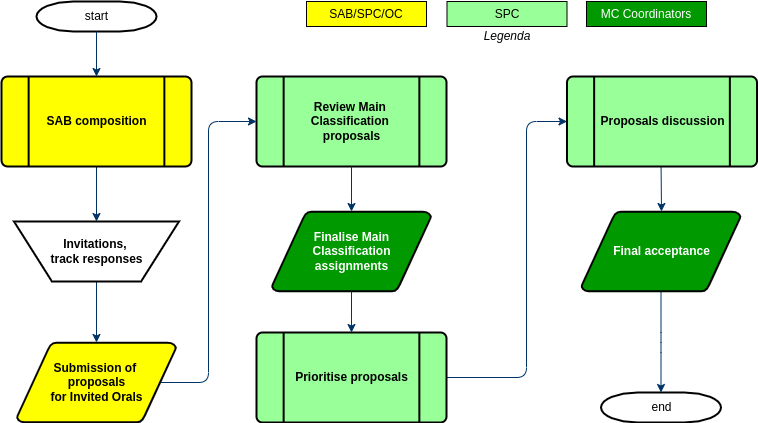
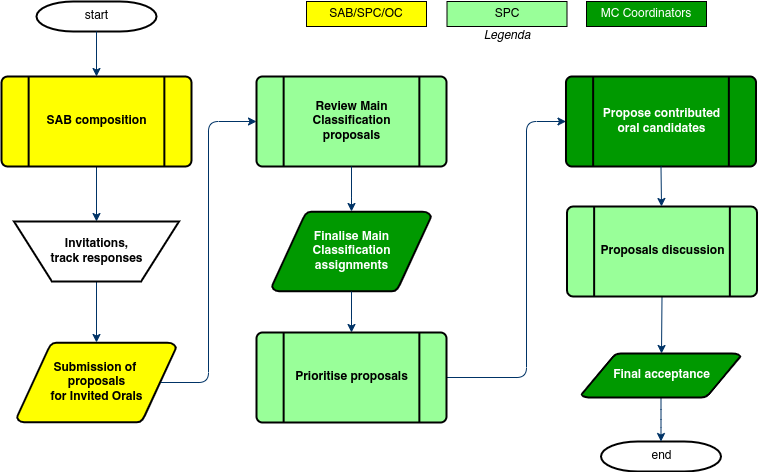
simplified workflow for invited proposals: intro

diff --git a/docs/InvitedOrals/intro.md b/docs/InvitedOrals/intro.md
@@ -2,23 +2,11 @@
 
 ## Introduction
 
-Conference programmes are generally composed of three types of 
-presentation: *Invited Oral*, *Contributed Oral* and *Poster*. The ratio of 
-the invited orals vs. contributed orals is decided by the Committee 
-responsible for the scientific programme (for IPAC: SPC, for HB: IOC, 
-etc.).
+Conference programmes are generally composed of three types of presentation: *Invited Oral*, *Contributed Oral* and *Poster*. The ratio of the invited orals vs. contributed orals is decided by the Committee responsible for the scientific programme (for IPAC: SPC, for HB: IOC, etc.).
 
-For IPAC, and several other JACoW conference series, there is a ***call
-for proposals for invited oral presentations approx. 15 months 
-prior to the conference*** – the aim being to have ***a
-complete programme of invited orals***, the backbone of the
-conference programme, when the conference website goes online around ***9 or 10 months in advance of the event.***
+For IPAC, and several other JACoW conference series, there is a ***call  for proposals for invited oral presentations approx. 15 months prior to the conference*** – the aim being to have ***a complete programme of invited orals***, the backbone of the conference programme, when the conference website goes online around ***9 or 10 months in advance of the event.***
 
-The persons contacted for proposals are normally members of the
-**Organizing Committee** (OC), the **Scientific Programme Committee** (SPC),
-and the **Scientific Advisory Board** (SAB), though persons outside of
-these bodies may also be called upon to submit. All of them need to have JACOW 
-profiles and must have the necessary privileges. 
+The persons contacted for proposals are normally members of the **Organizing Committee** (OC), the **Scientific Programme Committee** (SPC), and the **Scientific Advisory Board** (SAB), though persons outside of these bodies may also be called upon to submit. All of them need to have JACOW  profiles and must have the necessary privileges. 
 The **number of persons** concerned for IPAC is in the region of **120**. The **number of proposals** averages around **400**. 
 
 It is wise to invite speakers **a year in advance** since many have full agendas.
@@ -29,19 +17,23 @@ The IPAC SPC normally meets at the so called **SPC/2** meeting just over a year 
 
 The IPAC workflow of the submission of proposals for Invited Oral Presentations is as follows:
 
-1. **SAB/OC/SPC** members enter proposals into Indico via their 
-   own profiles. Proposals consist of a title, a brief description of what
-    the talk should cover, one or more candidates as proposed speakers and a Main Classification;
+1. **SAB/OC/SPC** members enter proposals into Indico via their own profiles. Proposals consist of a title, a brief description of what the talk should cover, one or more candidates as proposed speakers and a Main Classification;
 2. **SPC** members review the Main Classification assignments of *all* proposed abstracts;
 3. **SPC MC Coordinators** accept/reject requests of classification changes from previous step;
 4. **SPC** members review all proposals by assigning priorities/scores prior to the SPC/2 meeting;
-5. **SPC MC Coordinators** confer with their "shadows" or "deputies" to 
-   tag their priorities (1, 2nd and 3rd) to produce a preliminary list of 
-   preferred invited oral presentations and reserves;
-6. at the SPC/2 meeting, the **Session Coordinators** announce their 
-   proposals (talks and schedule within the synoptic table) to the full SPC
-    for discussion, with the aim to ultimately ensure the best possible 
-   overall programme, eliminating overlap in content, avoiding clashes, 
-   ensuring good geographical and gender balance.
+5. **SPC MC Coordinators** confer with their "shadows" or "deputies" to tag their priorities (1, 2nd etc.) to produce a preliminary list of preferred invited oral presentations and reserves;
+6. at the SPC/2 meeting, the **Session Coordinators** announce their proposals (talks and schedule within the synoptic table) to the full SPC for discussion, with the aim to ultimately ensure the best possible overall programme, eliminating overlap in content, avoiding clashes, ensuring good geographical and gender balance.
 
 ![](img/workflow.png)
+
+## Simplified workflow
+
+If the time available for the SPC to perform the above tasks is limited, it may be impossible to implement them with reasonable time available to SPC members to review twice all the proposals. Fortunately it may be simplified by merging the track change proposals and priorities assignment in one step only. The simplified process then results like this:
+
+1. **SAB/OC/SPC** members enter proposals into Indico via their own profiles. Proposals consist of a title, a brief description of what  the talk should cover, one or more candidates as proposed speakers and a Main Classification;
+2. **SPC** members review the Main Classification assignments of *all* proposed abstracts and assign priorities/scores prior to the SPC/2 meeting;
+3. **MC Coordinators** accept/reject requests of classification changes from previous step;
+4. **MC Coordinators** review the priorities given in the step #2 to produce a preliminary list of preferred contributed oral presentations and reserves;
+5. at the SPC/2 meeting, the **Session Coordinators** announce their proposals (talks and schedule within the synoptic table) to the full SPC for discussion, with the aim to ultimately ensure the best possible overall programme, eliminating overlap in content, avoiding clashes, ensuring good geographical and gender balance.
+
+![](img/workflow_s.png)

diff --git a/docs/InitialSetup/mgmt_area_02.md b/docs/InitialSetup/mgmt_area_02.md
@@ -20,8 +20,6 @@ then, be sure that the "**Managers only**" flag is set for your event.
 
 ![](img/upload_permissions.png)
 
-
-
 ### Contributions
 
 Contributions to the conference are created and managed
